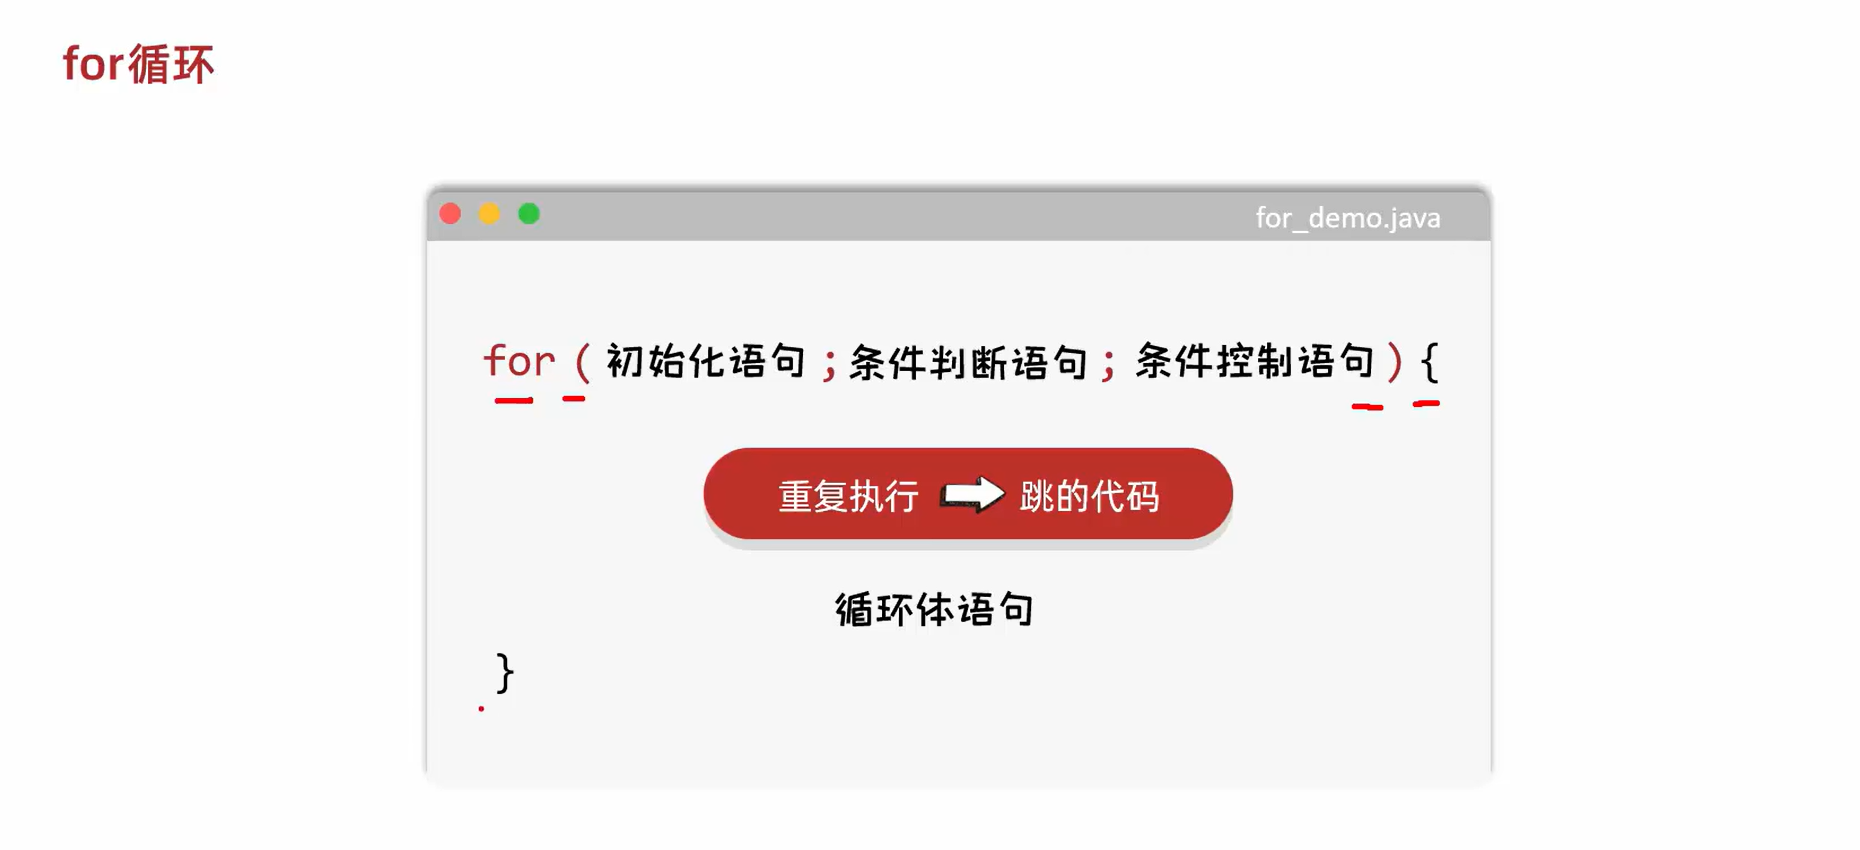
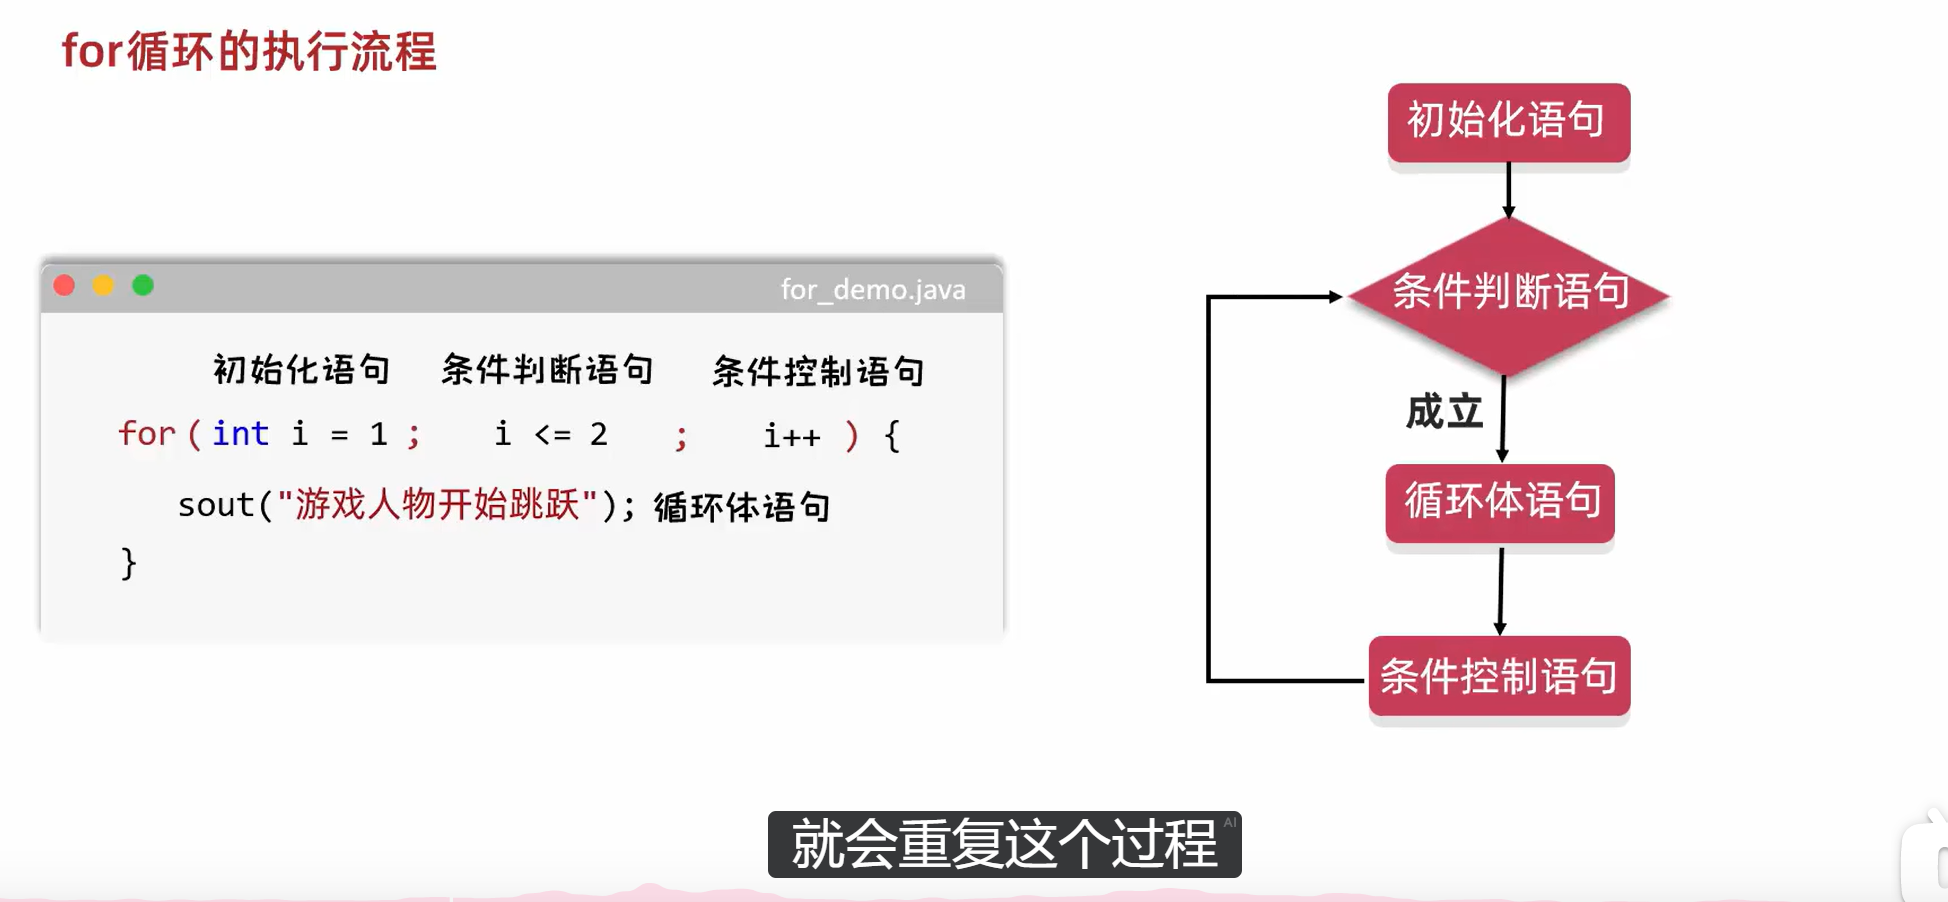
20261009 1104

diff --git a/src/top/wzln/forDemo/ForDemo1.java b/src/top/wzln/forDemo/ForDemo1.java
@@ -1,0 +1,24 @@
+package top.wzln.forDemo;
+
+public class ForDemo1 {
+    static void main(String[] args) {
+        /*
+            实现游戏中连续跳跃10次,用输出语句模拟跳跃的逻辑
+            格式:
+                for(初始化语句;条件判断语句;条件控制语句){
+                    循环体语句
+                }
+
+                初始化语句:开始条件1
+                条件判断语句:结束条件 100
+                条件控制语句: +1  i++
+
+                循环体:重复执行的代码
+         */
+
+        for(int i = 1;i <= 10;i++){
+            System.out.println("游戏人物正在跳跃");
+        }
+
+    }
+}

diff --git a/src/top/wzln/forDemo/for笔记.md b/src/top/wzln/forDemo/for笔记.md
@@ -1,3 +1,4 @@
 ![img.png](img.png)
-![img_1.png](img_1.png)
 ![img_2.png](img_2.png)
+![img_1.png](img_1.png)
+![img_3.png](img_3.png)
